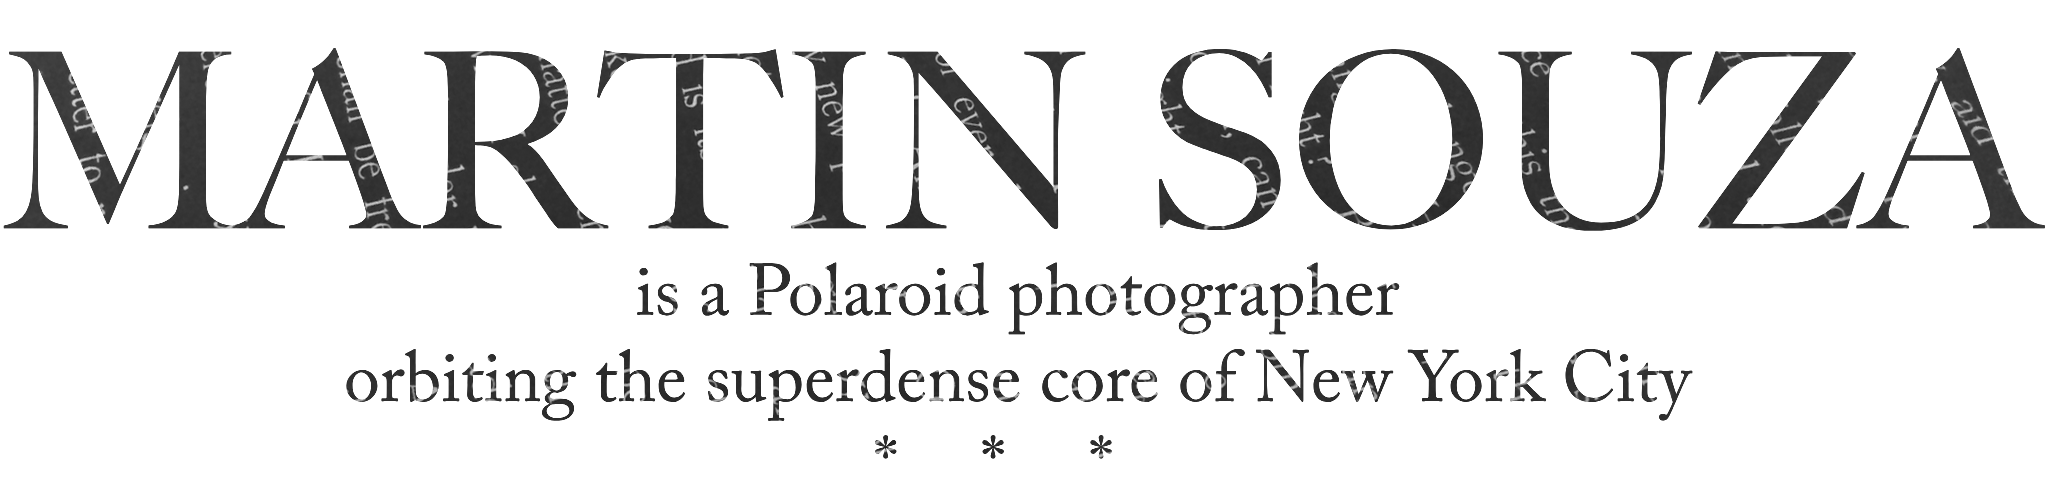
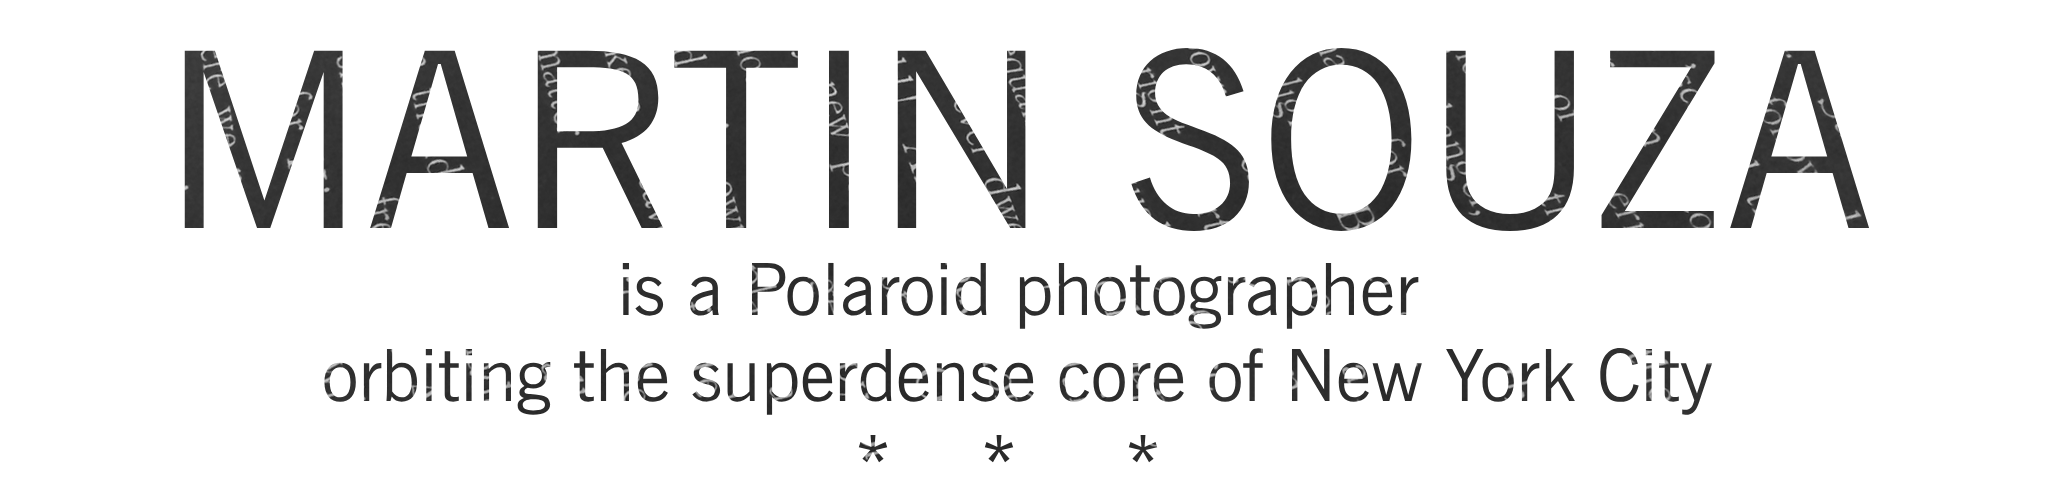
Updates

diff --git a/src/components/About.js b/src/components/About.js
@@ -1,7 +1,6 @@
 import { Container, Typography, Box, Link } from "@mui/material"
 import Image from "mui-image"
 import pola from "../img/pola.gif"
-import calligraphy from "../img/calligraphy.gif"
 import sword from "../img/sword.gif"
 import nycgb from "../img/nycgb.gif"
 
@@ -9,7 +8,7 @@ function About() {
   return (
     <Container>
       <Typography variant="body">
-        My relationship with Polaroid photography began mere moments after my birth, when my father took the very first pictures of me with his SX-70. Many years later, he gave me that same camera, long out of use and in need of repair. In the course of having it restored and beginning to learn how to us it, I connected with the instant photography community here in New York City and beyond, especially through my association with the <Link 
+        My relationship with Polaroid photography began mere moments after my birth, when my father took the very first pictures of me with his SX-70. Many years later, he lent me that same camera, long out of use and in need of repair. In the course of having it restored and beginning to learn how to us it, I connected with the instant photography community here in New York City and beyond, especially through my association with the <Link 
           href="https://www.instantfilmsociety.org/" 
           target="_blank"
           rel="noopener"
@@ -23,22 +22,16 @@ function About() {
         <Image src={pola} />
       </Box>
       <Typography variant="body">
-        Approaching Polaroid photography without preconceptions or preexisting habits from other kinds of photographic practice, I acquired specialized skills and niche knowledge related to Polaroid film and cameras, and cultivated the very peculiar and often intuitive aptitude required to use the medium effectively. I also developed an appreciation for the essential physicality of the integral film image as an object, each a unique and irreproducible artifact of the moment it was taken. In the process, I became very fond of the unpredictable effects and imperfections that frequently occur in Polaroid images as a result of photochemical defects, environmental conditions, and other happy accidents.
+        Approaching this unique kind of photography without preconceptions or preexisting habits from other types of photographic practice, I acquired specialized skills and niche knowledge related to Polaroid film and cameras, and cultivated the very particular and often intuitive aptitude required to use the medium effectively. I also developed an appreciation for the essential physicality of the integral film image as an object, each a unique and irreproducible artifact of the moment it was taken. In the process, I became very fond of the unpredictable effects and imperfections that frequently occur in Polaroid images as a result of photochemical defects, environmental conditions, and other happy accidents.
         <br />
         <br />
-        In my view, these qualities are the medium's strengths, and constitute precisely what appeals to people about this particular analog technology in our era of digital hyperreality. Polaroid's uniqueness, unpredictability, and imperfection are constraints that engender creativity, creating artistic opportunity and surprise.
+        In my view, these qualities are the medium's strengths, and constitute precisely what appeals to people about this particular analog technology in our era of digital hyperreality. Polaroid's uniqueness, unpredictability, and imperfection are constraints that engender creativity, thereby providing artistic opportunity and surprise.
         <br/>
         <br/>
-        I established my professional Polaroid practice, <b>Polatronic Studio</b>, both to offer my servics as a specialist Polaroid photographer and to encourage and facilitate others' exploration and experimentation with the medium—regardless of other photographic or artistic experience.
+        I established my professional Polaroid practice, <b>Polatronic Studio</b>, both to offer my servics as a specialist Polaroid photographer for hire and to encourage and facilitate others' exploration and experimentation with the medium—regardless of other photographic or artistic experience.
         <br/>
         <br/>
-        Most of my previous professional occupations revolved in one way or another around writing and editing, and my longstanding interest in words extends to the aesthetics of their form. I practice calligraphy, usually in my own English hand, and sometimes in Chinese.
-      </Typography>
-      <Box sx={{ display: "flex", justifyContent: "center", marginTop: 3, marginBottom: 3 }}>
-        <Image src={calligraphy} />
-      </Box>
-      <Typography variant="body">
-        I also supplement the pen with the sword. Since 2001, I've practiced kenjutsu, a type of Japanese-style swordplay, which I taught for five years at Reed College. More recently, I began studying Highland broadsword, the fencing technique of Scotland in the 18th century. When the time is right, I look forward to teaching sword arts again.
+        Before I ever picked up a camera, I learned abount controlled movement and finding the moment of decision from wielding a different instrument. Since 2001, I've practiced kenjutsu, a type of Japanese-style swordplay, which I taught for five years at Reed College. More recently, I began studying Highland broadsword, the fencing technique of Scotland in the 18th century. When the time is right, I look forward to teaching sword arts again.
       </Typography>
       <Box sx={{ display: "flex", justifyContent: "center", marginTop: 3, marginBottom: 3 }}>
         <Image src={sword} />

diff --git a/src/components/Work.js b/src/components/Work.js
@@ -1,15 +1,83 @@
-import { Container, Typography, Link, Stack, Box } from "@mui/material"
+import { Container, Typography, Link, Stack, Divider, Box, Button } from "@mui/material"
+import InstaIcon from '@mui/icons-material/Instagram'
+import MagIcon from '@mui/icons-material/AutoStoriesOutlined'
+import GroupsIcon from '@mui/icons-material/Groups'
 import Image from "mui-image"
 import sun660 from "../img/sun660.jpg"
 
-function Services() {
+function Work() {
 
   return (
     <Container>
+      <Box sx={{ display: "flex", justifyContent: "center", marginTop: 2 }}>
+        <Stack
+          direction={{ xs: 'column', sm: 'row' }}
+          spacing={{ xs: 1.5, sm: 2}}
+          divider={<Divider orientation="vertical" flexItem />}
+        >
+          <Button
+            variant="text"
+            color="inherit"
+            size="large"
+            startIcon={<InstaIcon />}
+            href="https://www.instagram.com/polatronic_martin/"
+            target="_blank"
+            rel="noopener"
+            sx={{ backgroundColor: "primary.light" }}
+          >
+            @polatronic_martin
+          </Button>
+
+          <Button
+            variant="text"
+            color="inherit"
+            size="large"
+            startIcon={<InstaIcon />}
+            href="https://www.instagram.com/nycinstantphotowalk/"
+            target="_blank"
+            rel="noopener"
+            sx={{ backgroundColor: "primary.light" }}
+          >
+            @nycinstantphotowalk
+          </Button>
+
+          <Button
+            variant="text"
+            color="inherit"
+            size="large"
+            startIcon={<MagIcon />}
+            href="https://www.instantfilmmagazine.com/"
+            target="_blank"
+            rel="noopener"
+            sx={{ backgroundColor: "primary.light" }}
+          >
+            The Instant Film Magazine
+          </Button>
+
+          <Button
+            variant="text"
+            color="inherit"
+            size="large"
+            startIcon={<GroupsIcon />}
+            href="https://www.instantfilmsociety.org/"
+            target="_blank"
+            rel="noopener"
+            sx={{ backgroundColor: "primary.light" }}
+          >
+            Instant Film Society
+          </Button>
+        </Stack>
+      </Box>
+
       <Typography variant="h4" sx={{ marginTop: 2, marginBottom: 1 }}>Services</Typography>
       <Typography variant="h5" sx={{ marginTop: 2 }}>Professional Polaroid Photography</Typography>
       <Typography variant="body">
         Whether to commemorate a special occasion, produce unique portraits (of humans or animal companions), or for an artistic shoot, I'm available as a specialist Polaroid photographer for hire. Whatever application of the Polaroid medium you have in mind, I'll work with you to accommodate your specific needs and goals, and create one-of-a-kind images for you using vintage Polaroid cameras.
+      </Typography>
+
+      <Typography variant="h5" sx={{ marginTop: 2 }}>Consulting</Typography>
+      <Typography variant="body">
+        I am available as a consultant to any project or organization requiring deep knowledge of Polaroid photography, cameras, or history. This includes especially movie and television productions aiming to feature Polaroid cameras or pictures with technical and period accuracy.
       </Typography>
 
       <Typography variant="h5" sx={{ marginTop: 2 }}>Instruction</Typography>
@@ -25,7 +93,7 @@ function Services() {
         </Link>, are intended for complete beginners or those curious about Polaroid photography. I'm also available for private group workshops and one-on-one lessons or practice sessions.
         <br/>
         <br/>
-        Regardless of your experience with photography generally or instant photography specifically, I'm delighted to provide guidance at any stage of your Polaroid journey.
+        Regardless of your experience with photography generally or instant photography specifically, I'm delighted to provide guidance at any stage of your Polaroid exploration.
       </Typography>
 
       <Typography variant="h5" sx={{ marginTop: 2 }}>Vintage Camera Rental</Typography>
@@ -51,4 +119,4 @@ function Services() {
   )
 }
 
-export default Services
+export default Work

diff --git a/src/components/Main.js b/src/components/Main.js
@@ -7,21 +7,37 @@ function Main() {
     <Container>
       <Stack direction={{ xs: "column", sm: "row"}} spacing={3}>
         <Typography variant="body">
-          I became a Polaroid photographer when my father gave me his SX-70 in 2022. As an inquisitive beginner with no technical knowledge of photography, I approached the Polaroid medium on its own accessible and intuitive terms, and quickly came to love it for its immediacy, unpredictability, and imperfection. I'm committed to sharing knowledge and experience, and encouraging others to explore and experiment with instant photography, whatever their other artistic or photographic background may be.
+          I became a Polaroid photographer when I borrowed my father's SX-70 camera in 2022. As an inquisitive beginner with no technical knowledge of photography, I approached the Polaroid medium on its own accessible and intuitive terms, and quickly came to love its immediacy, unpredictability, and imperfection. I'm committed to sharing knowledge and experience, and encouraging others to explore and experiment with instant photography, whatever their other artistic or photographic background may be.
           <br/>
           <br/>
-          In addition to my services as a specialist Polaroid photographer, I offer introductory instruction in the medium through  Polaroid 101 workshops and in private sessions. I also provide vintage Polaroid cameras for rental, including whatever level of guidance and support you need to use them.
+          In addition to my services as a specialist Polaroid photographer for hire, I offer introductory instruction in the medium through Polaroid 101 workshops and in private sessions. I can provide vintage Polaroid cameras for rental, including whatever level of guidance and support you need to use them. I am available as a technicnal consultant on all things Polaroid-related for movies, television, or any other projects.
           <br/>
           <br/>
-          I am also a contributor and Editor at <Link
-              href="https://www.stayforaninstant.com/"
+          I am also Editor of <Link
+              href="https://www.instantfilmmagazine.com/"
               target="_blank"
               rel="noopener"
               variant="inherit" 
               color="inherit"
           >
-            <i>The Instant Film Magazine</i>.
-          </Link>
+            <i>The Instant Film Magazine</i>
+          </Link>, East Coast Regional Director of the <Link
+              href="https://www.instantfilmsociety.org/"
+              target="_blank"
+              rel="noopener"
+              variant="inherit" 
+              color="inherit"
+          >
+            Instant Film Society
+          </Link>, Resident Polaroid Educator at <Link
+              href="https://brooklynfilmcamera.com/"
+              target="_blank"
+              rel="noopener"
+              variant="inherit" 
+              color="inherit"
+          >
+            Brooklyn Film Camera
+          </Link>, and host of the NYC Instant Photowalk.
         </Typography>
         <Box sx={{ minWidth: "40%" }}>
           <Image src={portrait} sx={{ borderStyle: "solid", borderWidth: 1 }} />

diff --git a/src/components/Contact.js b/src/components/Contact.js
@@ -1,7 +1,5 @@
 import { useState } from "react"
-import { Container, Typography, Box, Stack, Divider, Button, Input } from "@mui/material"
-import InstaIcon from '@mui/icons-material/Instagram'
-import CropOriginalSharpIcon from '@mui/icons-material/CropOriginalSharp'
+import { Container, Typography, Box, Button, Input } from "@mui/material"
 import EmailOutlinedIcon from '@mui/icons-material/EmailOutlined'
 
 function Contact() {
@@ -32,41 +30,6 @@ function Contact() {
 
   return (
     <Container>
-      <Typography variant="body">
-        You can see my work out and about online:
-      </Typography>
-      <Box sx={{ display: "flex", justifyContent: "center", marginTop: 2 }}>
-        <Stack
-          direction={{ xs: 'column', sm: 'row' }}
-          spacing={{ xs: 1.5, sm: 2}}
-          divider={<Divider orientation="vertical" flexItem />}
-        >
-          <Button
-            variant="text"
-            color="inherit"
-            size="large"
-            startIcon={<InstaIcon />}
-            href="https://www.instagram.com/polatronic_martin/"
-            target="_blank"
-            rel="noopener"
-            sx={{ backgroundColor: "primary.light" }}
-          >
-            Instagram
-          </Button>
-          <Button
-            variant="text"
-            color="inherit"
-            size="large"
-            startIcon={<CropOriginalSharpIcon />}
-            href="https://www.stayforaninstant.com/ifm-contributor-portfolios/project-one-ephnc-4xxmy-yffxd" 
-            target="_blank"
-            rel="noopener"
-            sx={{ backgroundColor: "primary.light" }}
-          >
-            The Instant Film Magazine
-          </Button>
-        </Stack>
-      </Box>
       <Box sx={{ marginTop: 3 }}>
         <Typography variant="body">
           For bookings or other professional inquiries, please contact me via e-mail:

diff --git a/src/App.js b/src/App.js
@@ -7,7 +7,7 @@ import banner from "./img/banner.png"
 import Nav from "./components/Nav"
 import Main from "./components/Main"
 import About from "./components/About"
-import Services from "./components/Services"
+import Work from "./components/Work"
 import Contact from "./components/Contact"
 import NotFound from "./components/NotFound"
 import Footer from "./components/Footer"
@@ -39,7 +39,7 @@ function App() {
           <Routes>
             <Route path="/" element={<Main />} />
             <Route path="/about" element={<About />} />
-            <Route path="/services" element={<Services />} />
+            <Route path="/work" element={<Work />} />
             <Route path="/contact" element={<Contact />} />
             <Route path="*" element={<NotFound />} />
           </Routes>

diff --git a/src/components/Nav.js b/src/components/Nav.js
@@ -8,7 +8,7 @@ function Nav() {
                 <Stack direction="row" spacing={2}>
                     <NavButton to="/" label="Main" />
                     <NavButton to="/about" label="About" />
-                    <NavButton to="/services" label="Services" />
+                    <NavButton to="/work" label="Work" />
                     <NavButton to="/contact" label="Contact" />
                 </Stack>
             </Toolbar>
